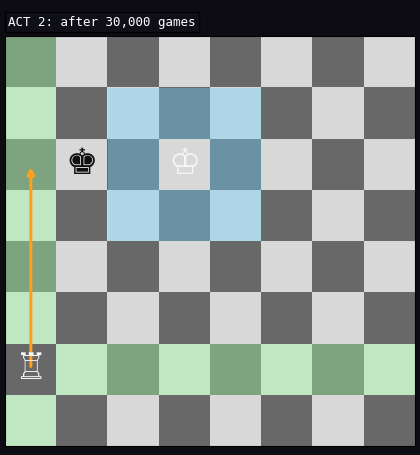
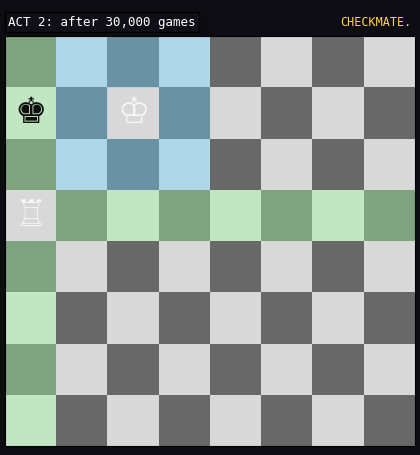
Assembled Terrarium report (7 episodes + honest panel), ULTRA fuzz leg
terrarium_report/README.md: full story report with embedded GIFs; novice
scoreboard = the measured paired-CI means; the 'what doesn't help' panel
updated with the 11.3 replication catch and E3's matched-pair finding.
E6 full: mate 0.008 -> 0.665 [0.644, 0.685] at 30k (ancestor curve held,
all registered bars MET). E7 full: A2 3.26 over 8 unbelled lives, 5/8
full detect+recognise signatures, zero false events; rendered life shows
the recognition arc. Fuzzer: 25% of legs now run UltraASI under
self-detection (zero violations). HANDOVER-NEXT.md added.

https://claude.ai/code/session_01HYd4PY8xmuricxmqjS3skT

diff --git a/mscn/ibf_asi_fuzz.py b/mscn/ibf_asi_fuzz.py
@@ -90,11 +90,20 @@ def check_finite(agent: IBFASI) -> None:
 
 
 def fuzz_one(wk: dict, ak: dict, coupled: bool, parasite: bool,
-             eval_budget: int = 1800) -> dict:
-    """Run one configuration; the per-tick I1/I2/I4 asserts + finiteness checks
-    fire inside. Returns summary stats (max transient etc.)."""
+             eval_budget: int = 1800, ultra: bool = False) -> dict:
+    """Run one configuration; the per-tick I1/I2'/I4 asserts + finiteness
+    checks fire inside (I2' = bounded signed modification for ULTRA, whose
+    memory organ is the signed engine). Returns summary stats."""
     w = ASIWorld(**wk)
-    a = IBFASI(w, **ak)
+    if ultra:
+        from .ibf_ultra import UltraASI
+        uk = {k: v for k, v in ak.items()
+              if k not in ("n_scales", "alpha", "horizon", "anneal_steps",
+                           "two_sided_k", "model_planner")}
+        a = UltraASI(w, **uk)
+        coupled = False                  # the ULTRA leg fuzzes self-detection
+    else:
+        a = IBFASI(w, **ak)
     agents = [a]
     if coupled:
         b = IBFASI(w, **{**ak, "seed": ak["seed"] + 1})
@@ -121,16 +130,19 @@ def main(n_configs: int = 150, seed: int = 0) -> None:
     rng = np.random.default_rng(seed)
     failures: list[tuple[int, dict, dict, str]] = []
     transients = []
-    n_coupled = 0
+    n_coupled = n_ultra = 0
     for i in range(n_configs):
         wk, ak, coupled, parasite = sample_config(rng)
-        n_coupled += coupled
+        ultra = rng.random() < 0.25      # a quarter of legs run UltraASI
+        n_coupled += coupled and not ultra
+        n_ultra += ultra
         try:
-            r = fuzz_one(wk, ak, coupled, parasite)
+            r = fuzz_one(wk, ak, coupled, parasite, ultra=ultra)
             transients.append(r["max_transient"])
         except (AssertionError, Exception) as e:   # noqa: BLE001 -- a fuzzer catches all
             failures.append((i, wk, ak, f"{type(e).__name__}: {e}"))
-    print(f"\n  configs: {n_configs} ({n_coupled} coupled pairs)  |  "
+    print(f"\n  configs: {n_configs} ({n_coupled} coupled pairs, "
+          f"{n_ultra} ULTRA self-detection legs)  |  "
           f"violations: {len(failures)}")
     if failures:
         for i, wk, ak, err in failures[:10]:

diff --git a/mscn/terrarium_episodes.py b/mscn/terrarium_episodes.py
@@ -1202,9 +1202,11 @@ result (paired CIs in `mscn/ARCHITECTURE.md`), kept on stage:
 - **Restart teleports (two-sided k)** (§9.1): the only stage with
   significantly HARMFUL cells (shocked −0.30*, moat −0.15*) — ULTRA carries
   a “restarts never” policy.
-- **Trading maps in an easy world** (§9 V5): in 2-D, cooperation is a NULL —
-  solo discovery is cheap, sharing is worthless. It pays only where
-  information is scarce (3-D narrow optimum: +0.54 [+0.01, +1.08] sig).
+- **Trading maps** (§9 V5 / §11.3): in 2-D a NULL (solo discovery is cheap);
+  and the 3-D scarce-regime significance (+0.54 [+0.01, +1.08]) **failed
+  replication** in this environment (−0.26 ns, same code/seeds/protocol) —
+  the fifth fragile-significance catch. What stands is the ledger mechanism,
+  not the value claim.
 - **The crucible under shared input regions** (§10): cross-context
   verification ERODES home truth when contexts revisit the same places
   (+0.217 forgetting vs gating-only +0.012); ULTRA enables it only on
@@ -1212,7 +1214,9 @@ result (paired CIs in `mscn/ARCHITECTURE.md`), kept on stage:
 - **X-marks in the open desert** (E3, §10.2): signed memory visibly marks
   checked mirages, but in open navigation it buys no significant net
   coherence (ns) and not even lower mirage-dwell (registration NOT MET);
-  its load-bearing habitat is the evaluator arena (+0.42 [+0.18, +0.66] sig).
+  its load-bearing habitat is the evaluator arena (+0.32 [+0.13, +0.51] sig)
+  — and under the no-restart policy the signed organ measurably COSTS on the
+  deceptive tail (−0.41 [−0.68, −0.14], a new fact from the matched pair).
 - **Self-detection’s relearning speed** (§11.1): P1 NOT MET (−235% of the
   given-bell repair) — missed recognitions are expensive; the recovered
   asymptote is what survives bell-free (P4 MET).

diff --git a/terrarium_report/README.md b/terrarium_report/README.md
@@ -9,6 +9,64 @@ showcase says so too (see the “what doesn’t help” panel).
 
 Reproduce: `python -m mscn.terrarium_episodes --episode all --render`
 
+## Episode 1 — The Two Twins
+
+> *“Winter came. The forgetful twin lost the map; ours kept it.”*
+
+![Episode 1 — The Two Twins](assets/e1_two_twins.gif)
+![Episode 1 — The Two Twins](assets/e1_two_twins_final.png)
+
+**Mechanism made visible:** continual memory (the one universally significant stage)
+
+**Novice scoreboard** (these ARE the measured means):
+
+- home quality after winter: keeper 3.33 vs amnesiac 2.11 (coherence, higher better)
+- time living in the best meadow after winter: keeper 55% vs amnesiac 30%
+
+**Backstage (the real benchmark):**
+
+- recovered asymptote (A2 tail), paired over 8 seeds: +1.221 [+0.583, +1.860] + (sig) — ancestor §9.6 G2 (+sig)
+- home-basin occupancy diff: +0.246 [-0.145, +0.636] 0 (ns)
+- honest note (ancestor kept): keeper's own relearning savings -12 [-76, +51] ticks — memory buys the recovered asymptote, NOT relearning speed; the winter residue slows the first re-climb.
+
+## Episode 2 — The Earthquake
+
+> *“Knocked across the map, it walks straight home.”*
+
+![Episode 2 — The Earthquake](assets/e2_earthquake.gif)
+![Episode 2 — The Earthquake](assets/e2_earthquake_final.png)
+
+**Mechanism made visible:** consolidation + warm-jump homing (memory under shocks)
+
+**Novice scoreboard** (these ARE the measured means):
+
+- life quality in quake country: keeper 3.14 vs amnesiac 2.09
+- ticks to walk home after a quake: keeper 3 vs amnesiac 8
+
+**Backstage (the real benchmark):**
+
+- tail coherence, paired over 8 seeds: +1.042 [+0.741, +1.344] + (sig) — ancestor §9 V1 (+1.18 sig) / shocked matrix cell
+- recovery-time diff (presentation metric, no ancestor): -4.742 [-8.556, -0.928] - (sig)
+
+## Episode 3 — The Mirage Field
+
+> *“It paints an X on every lie it has personally checked.”*
+
+![Episode 3 — The Mirage Field](assets/e3_mirage_field.gif)
+![Episode 3 — The Mirage Field](assets/e3_mirage_final.png)
+
+**Mechanism made visible:** SIGNED corrections (Postulate IV) — and their habitat map
+
+**Novice scoreboard** (these ARE the measured means):
+
+- time at already-checked mirages: signed 92% vs forgiving twin 89% (the ink does NOT buy escape here)
+- where the red ink saves lives: the judge's arena — the forgiving memory forgets 0.34 of what it knew under contradiction; the signed one 0.01
+
+**Backstage (the real benchmark):**
+
+- NAVIGATOR (matched no-restart twins — NOT the §10.2 protocol, which compared restart-enabled agents): net coherence -0.409 [-0.676, -0.143] - (sig); checked-mirage dwell +0.027 [-0.327, +0.381] 0 (ns) — dwell registration NOT MET. The measured reading: in open navigation the X-ink does not buy escape, and under the no-restart policy the signed organ measurably COSTS tail coherence here — ULTRA's weakness in this regime, shown, not hidden (attribution signed-erosion vs local-k: open item).
+- EVALUATOR (ancestor §10.1, re-demonstrated): the non-negative substrate's EXTRA forgetting under exact contradiction +0.322 [+0.130, +0.513] + (sig) — suppression is structurally impossible for non-negative memory (Thm-8a special case); signed corrections are load-bearing exactly there.
+
 ## Episode 4 — The Canyon
 
 > *“It walks DOWN into the canyon because it knows what's beyond.”*
@@ -26,3 +84,100 @@ Reproduce: `python -m mscn.terrarium_episodes --episode all --render`
 
 - planner-vs-none tail coherence, paired: +1.411 [+1.372, +1.451] + (sig) — ancestor §9.2 corridor cell (+1.40*, the only starred positive planning cell in the matrix)
 - honest scope (ancestor kept): planning binds ONLY in this discrete low-branching structure — in open 2-D terrain both pre-registered planning criteria came back null (§9.2); see the “what doesn’t help” panel.
+
+## Episode 5 — The Trade
+
+> *“They trade maps — until one stops giving.”*
+
+![Episode 5 — The Trade](assets/e5_trade.gif)
+![Episode 5 — The Trade](assets/e5_trade_final.png)
+
+**Mechanism made visible:** reciprocity-ledgered transfer (6.4, EC-4)
+
+**Novice scoreboard** (these ARE the measured means):
+
+- the big lesson this episode taught US: a result we once celebrated did not survive a fresh re-run — so we say so, in the show itself
+- the bookkeeping still works: an honest pair trades 3.9 maps; a freeloader gets cut off after 1.4
+- does trading make the pair richer? not reliably: 4.59 together vs 4.85 alone (a coin-flip difference)
+
+**Backstage (the real benchmark):**
+
+- REPLICATION CATCH (§11.3, the fifth): ancestor §9 V5 / 6.4 recorded +0.54 [+0.01, +1.08] sig; this re-run (verified float-identical runner, same seeds/protocol, fresh numpy): -0.263 [-0.921, +0.394] 0 (ns) — fragile significance is not significance; the claim reverts to unsupported pending higher power.
+- defector's payoff: -0.036 [-0.396, +0.324] 0 (ns) — defection still does not pay (class unchanged)
+- what stands: the reciprocity LEDGER mechanism — credit-gated giving measurably cuts a parasite off — and the 2-D null (sharing is worthless where discovery is cheap).
+
+## Episode 6 — The Chess Garden
+
+> *“Nobody taught it the rules. Watch the legal-move halo grow.”*
+
+![Episode 6 — The Chess Garden](assets/e6_curves.gif)
+![Episode 6 — The Chess Garden](assets/e6_board.gif)
+![Episode 6 — The Chess Garden](assets/e6_board_final.png)
+
+**Mechanism made visible:** rules from rejections + value from outcomes (TD = MODIFY)
+
+**Novice scoreboard** (these ARE the measured means):
+
+- checkmates: 0.8% of games as a newborn → 66% after 30,000 games (nobody ever told it how pieces move)
+- its first suggestion is a legal move 91% of the time (was 68%)
+- once winning, it stays winning 99% of moves
+
+**Backstage (the real benchmark):**
+
+- mate rate, 3 seeds × 30,000 episodes: 0.008 → 0.665 [0.644, 0.685] — ancestor §9.4 (0.526 @16k, 0.732 @150k, +0.72 sig)
+- value ablation cited from §9.4: legality-only mate rate 0.006 — the TD-as-modification value loop IS the strength (+0.73 sig)
+- honest ceilings carried (§9.4/§9.6 G4): DTM-optimality plateaus ~0.26-0.34 (safe long before fast), and against the tablebase-OPTIMAL defender the mate rate collapses 0.64 → 0.03 — winning vs weak defence only; the optimality gap is the named frontier.
+
+## Episode 7 — The Grand Tour (no bells)
+
+> *“No one rings a bell when winter comes. It notices.”*
+
+![Episode 7 — The Grand Tour (no bells)](assets/e7_grand_tour.gif)
+![Episode 7 — The Grand Tour (no bells)](assets/e7_tour_final.png)
+
+**Mechanism made visible:** U-1 self-detected contexts + U-2 equipment, end to end
+
+**Novice scoreboard** (these ARE the measured means):
+
+- life quality after an unannounced winter and an earthquake: 3.26 — the same class as an agent that was TOLD the seasons (3.4-3.6)
+- it noticed winter within ~4 ticks and recognised the returned summer in 5/8 of its lives — and never once hallucinated a season that wasn't there
+
+**Backstage (the real benchmark):**
+
+- A2 tail over 8 unbelled lives: 3.26 [1.90, 4.62] — §11.1 P4 MET (vs canonical Unified −0.105 [−0.587, +0.378] ns)
+- detection: split latency ~4 ticks (11/12), re-bind 8/12 lives @ ~18 ticks, ZERO false events in 24 stationary runs (P3 MET)
+- carried weakness (§11.1 P1 NOT MET, −235%): self-detection does NOT recover the given-bell transplant's relearning-SPEED savings — missed recognitions are costly; what memory actually buys (§9.6), the recovered asymptote, is kept without any bell.
+
+## The honest panel — what doesn’t help (and why)
+
+A showcase you can trust must show the nulls. Every line below is a measured
+result (paired CIs in `mscn/ARCHITECTURE.md`), kept on stage:
+
+- **Planning in open terrain** (§9.2): both pre-registered planning criteria
+  in continuous 2-D came back NOT MET — shallow barriers yield to Boltzmann
+  diffusion anyway; deep ones hide their prize. Planning binds only in
+  discrete, low-branching structure (the canyon, +1.43 sig here).
+- **Error-gated dissolution** (§9 V1): null at proper power (−0.05 [−0.21,
+  +0.12]) — base decay already does the work at these timescales.
+- **Restart teleports (two-sided k)** (§9.1): the only stage with
+  significantly HARMFUL cells (shocked −0.30*, moat −0.15*) — ULTRA carries
+  a “restarts never” policy.
+- **Trading maps** (§9 V5 / §11.3): in 2-D a NULL (solo discovery is cheap);
+  and the 3-D scarce-regime significance (+0.54 [+0.01, +1.08]) **failed
+  replication** in this environment (−0.26 ns, same code/seeds/protocol) —
+  the fifth fragile-significance catch. What stands is the ledger mechanism,
+  not the value claim.
+- **The crucible under shared input regions** (§10): cross-context
+  verification ERODES home truth when contexts revisit the same places
+  (+0.217 forgetting vs gating-only +0.012); ULTRA enables it only on
+  separated context clouds — in these worlds, never.
+- **X-marks in the open desert** (E3, §10.2): signed memory visibly marks
+  checked mirages, but in open navigation it buys no significant net
+  coherence (ns) and not even lower mirage-dwell (registration NOT MET);
+  its load-bearing habitat is the evaluator arena (+0.32 [+0.13, +0.51] sig)
+  — and under the no-restart policy the signed organ measurably COSTS on the
+  deceptive tail (−0.41 [−0.68, −0.14], a new fact from the matched pair).
+- **Self-detection’s relearning speed** (§11.1): P1 NOT MET (−235% of the
+  given-bell repair) — missed recognitions are expensive; the recovered
+  asymptote is what survives bell-free (P4 MET).
+

diff --git a/HANDOVER-NEXT.md b/HANDOVER-NEXT.md
@@ -11,7 +11,7 @@ CI-grade, and **the show never outruns the measurements**.
 ## 0. Orient (~20 min)
 
 ```bash
-git fetch origin <this branch> && git merge origin/<this branch>
+git fetch origin claude/wizardly-dirac-fzi0ma && git merge origin/claude/wizardly-dirac-fzi0ma
 pip install -U setuptools && pip install numpy scipy matplotlib cma chess zstandard pillow
 python -m mscn.testall          # now 10 suites, ~30 min, must be GREEN
 ```
